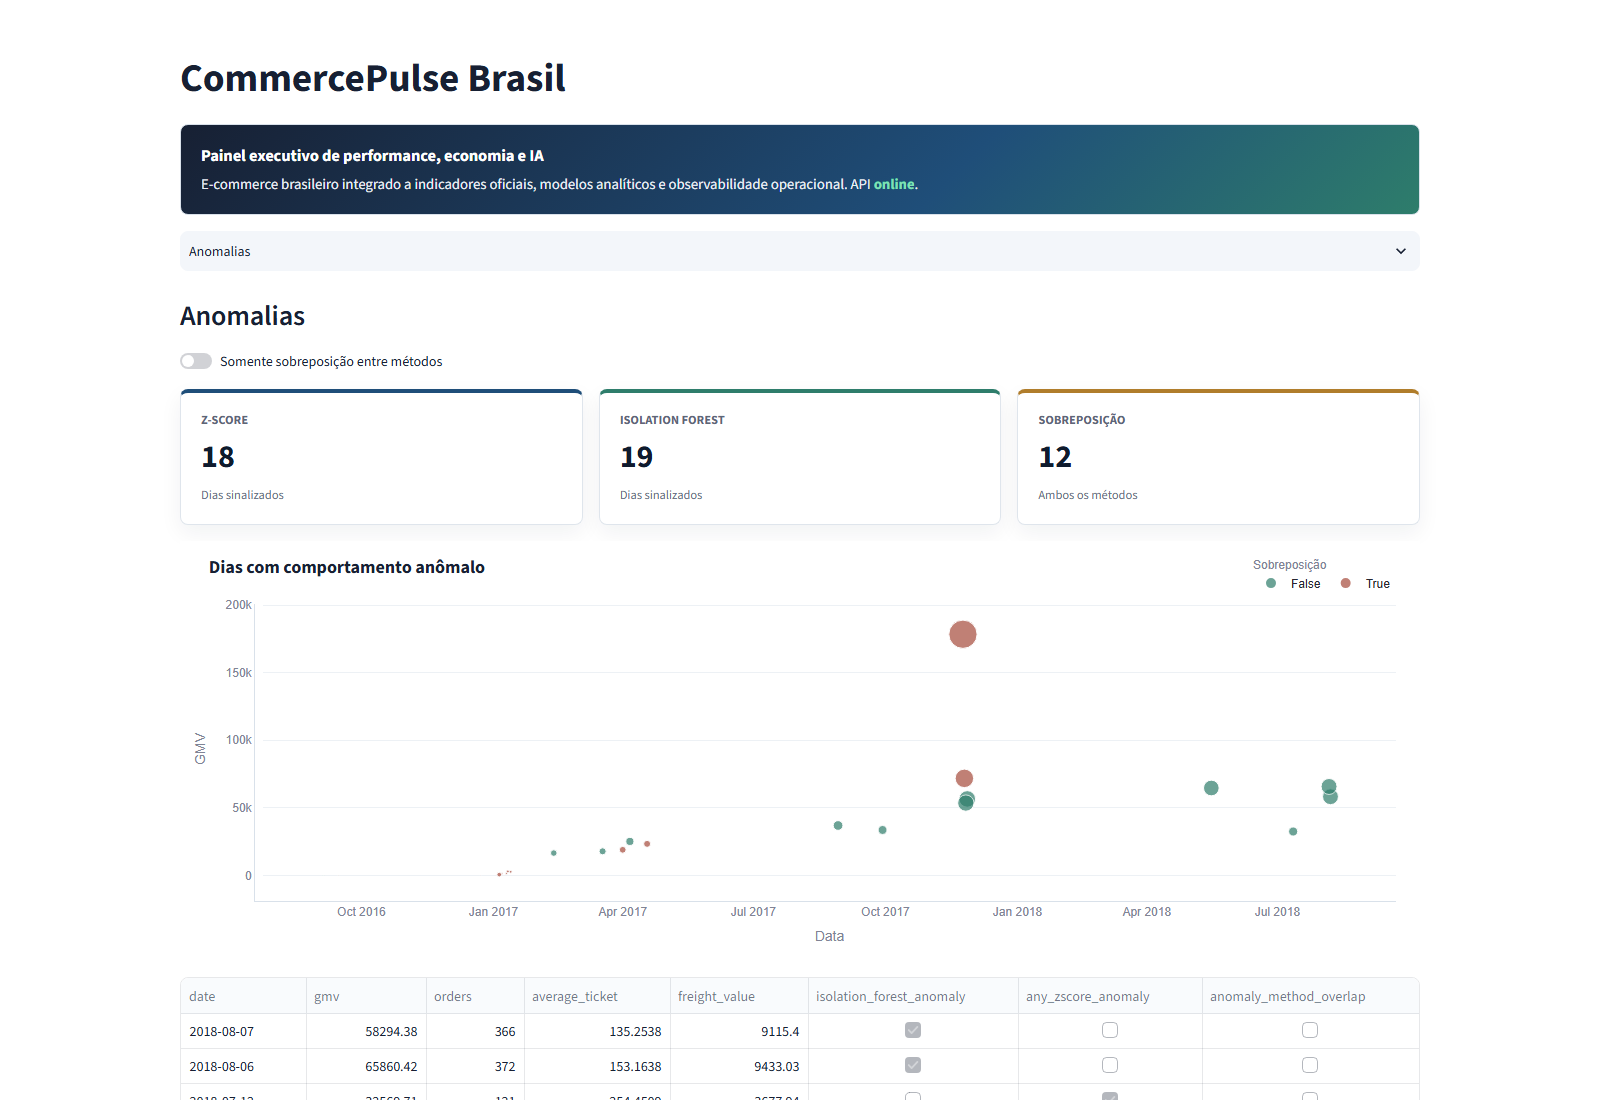
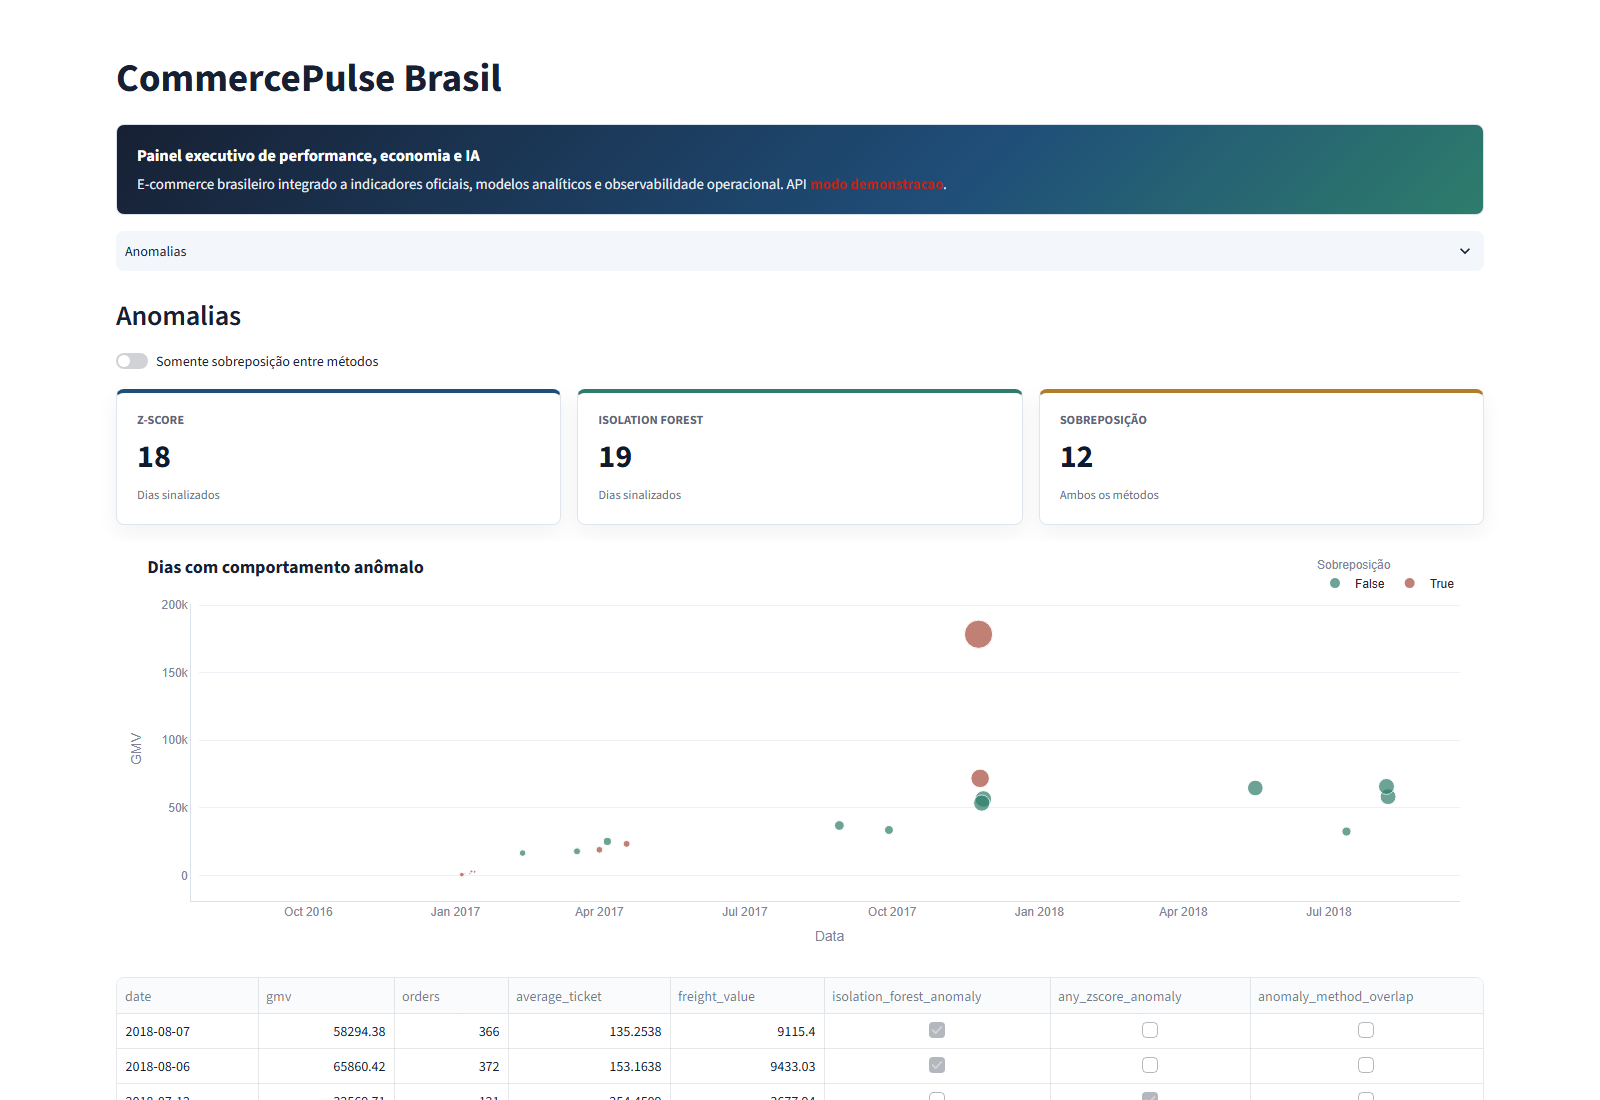
Refresh dashboard screenshots

diff --git a/dashboard/app.py b/dashboard/app.py
@@ -1,4 +1,4 @@
-from __future__ import annotations
+from __future__ import annotations
 
 import json
 import os
@@ -178,6 +178,8 @@ def apply_theme() -> None:
 
 @st.cache_data(ttl=300)
 def fetch_json(path: str, params: dict[str, Any] | None = None) -> Any:
+    if not is_api_available():
+        return sample_response(path, params=params)
     try:
         response = requests.get(f"{API_BASE_URL}{path}", params=params, timeout=10)
         response.raise_for_status()
@@ -308,13 +310,18 @@ def page_index_from_query(page_value: str | None) -> int:
     return PAGES.index(page) if page in PAGES else 0
 
 
-def api_status() -> bool:
+@st.cache_data(ttl=300)
+def is_api_available() -> bool:
     try:
         response = requests.get(f"{API_BASE_URL}/health", timeout=3)
         response.raise_for_status()
     except requests.RequestException:
         return False
     return True
+
+
+def api_status() -> bool:
+    return is_api_available()
 
 
 def style_figure(fig: go.Figure) -> go.Figure:
@@ -464,7 +471,7 @@ def render_overview() -> None:
             hover_data={"orders": ":,.0f", "customers": ":,.0f", "average_ticket": ":.2f"},
         )
         fig.update_traces(line={"width": 3, "color": "#1F4E79"}, marker={"size": 8})
-        st.plotly_chart(style_figure(fig), use_container_width=True)
+        st.plotly_chart(style_figure(fig), width="stretch")
     with right:
         categories_chart = categories.sort_values("gmv")
         categories_chart["categoria"] = categories_chart["category"].map(humanize_label)
@@ -480,8 +487,12 @@ def render_overview() -> None:
             hover_data={"orders": ":,.0f", "items_sold": ":,.0f", "average_ticket": ":.2f"},
         )
         fig.update_traces(marker={"color": "#2E7D6B"})
-        add_bar_labels(fig)
-        st.plotly_chart(style_figure(fig), use_container_width=True)
+        fig.update_traces(
+            textposition="inside",
+            insidetextanchor="end",
+            textfont={"color": "#ffffff"},
+        )
+        st.plotly_chart(style_figure(fig), width="stretch")
 
     segments["segmento"] = segments["ml_segment"].map(SEGMENT_LABELS).fillna(segments["ml_segment"])
     segments["clientes"] = segments["customers"].map(format_compact_number)
@@ -513,7 +524,7 @@ def render_overview() -> None:
         )
         fig.update_layout(coloraxis_colorbar={"title": "Valor medio"})
         add_bar_labels(fig)
-        st.plotly_chart(style_figure(fig), use_container_width=True)
+        st.plotly_chart(style_figure(fig), width="stretch")
     with right:
         segment_table = segments.sort_values("customers", ascending=False)[
             ["segmento", "clientes", "valor_medio", "average_recency_days"]
@@ -528,7 +539,7 @@ def render_overview() -> None:
         segment_table["Recencia media"] = segment_table["Recencia media"].map(
             lambda value: f"{value:.1f} dias"
         )
-        st.dataframe(segment_table, use_container_width=True, hide_index=True)
+        st.dataframe(segment_table, width="stretch", hide_index=True)
 
     segment_categories = dataframe_from_api("/customers/segments/categories")
     if not segment_categories.empty:
@@ -571,7 +582,7 @@ def render_overview() -> None:
                 )
                 fig.update_traces(marker={"color": "#1F4E79"})
                 add_bar_labels(fig)
-                st.plotly_chart(style_figure(fig), use_container_width=True)
+                st.plotly_chart(style_figure(fig), width="stretch")
                 st.dataframe(
                     segment_slice.sort_values("gmv", ascending=False)[
                         ["categoria", "gmv_label", "pedidos", "itens"]
@@ -583,7 +594,7 @@ def render_overview() -> None:
                             "itens": "Itens",
                         }
                     ),
-                    use_container_width=True,
+                    width="stretch",
                     hide_index=True,
                 )
 
@@ -609,7 +620,7 @@ def render_sales() -> None:
         hover_data={"orders": ":,.0f", "gmv": ":.2f", "average_ticket": ":.2f"},
     )
     fig.update_traces(line={"width": 3, "color": "#1F4E79"}, marker={"size": 7})
-    st.plotly_chart(style_figure(fig), use_container_width=True)
+    st.plotly_chart(style_figure(fig), width="stretch")
 
     cols = st.columns(2)
     with cols[0]:
@@ -625,7 +636,7 @@ def render_sales() -> None:
         )
         fig.update_traces(marker={"color": "#2E7D6B"})
         add_bar_labels(fig)
-        st.plotly_chart(style_figure(fig), use_container_width=True)
+        st.plotly_chart(style_figure(fig), width="stretch")
     with cols[1]:
         fig = px.line(
             monthly,
@@ -637,8 +648,8 @@ def render_sales() -> None:
             hover_data={"orders": ":,.0f", "gmv": ":.2f"},
         )
         fig.update_traces(line={"width": 3, "color": "#B07D2B"}, marker={"size": 7})
-        st.plotly_chart(style_figure(fig), use_container_width=True)
-    st.dataframe(daily, use_container_width=True, hide_index=True)
+        st.plotly_chart(style_figure(fig), width="stretch")
+    st.dataframe(daily, width="stretch", hide_index=True)
 
 
 def render_categories() -> None:
@@ -647,28 +658,49 @@ def render_categories() -> None:
     categories = dataframe_from_api("/categories/top", {"limit": limit})
     categories["categoria"] = categories["category"].map(humanize_label)
     categories["gmv_label"] = categories["gmv"].map(format_compact_currency)
+    categories["orders_label"] = categories["orders"].map(format_compact_number)
+    categories["ticket_label"] = categories["average_ticket"].map(format_currency)
 
-    fig = px.scatter(
-        categories,
-        x="orders",
-        y="gmv",
-        size="items_sold",
+    ranked = categories.sort_values("gmv", ascending=True)
+    fig = px.bar(
+        ranked,
+        x="gmv",
+        y="categoria",
+        orientation="h",
+        text="gmv_label",
         color="average_ticket",
-        text="categoria",
-        hover_name="categoria",
         color_continuous_scale=["#dfe8f2", "#1F4E79"],
-        title="Categorias por escala, GMV e ticket médio",
+        title="Ranking de categorias por GMV",
         labels={
-            "orders": "Pedidos",
             "gmv": "GMV",
-            "items_sold": "Itens vendidos",
+            "categoria": "Categoria",
             "average_ticket": "Ticket médio",
         },
-        hover_data={"gmv_label": False, "revenue": ":.2f", "freight_value": ":.2f"},
+        hover_data={
+            "orders_label": True,
+            "ticket_label": True,
+            "items_sold": ":,.0f",
+            "revenue": ":.2f",
+            "freight_value": ":.2f",
+            "gmv_label": False,
+        },
     )
-    fig.update_traces(textposition="top center")
-    st.plotly_chart(style_figure(fig), use_container_width=True)
-    st.dataframe(categories, use_container_width=True, hide_index=True)
+    add_bar_labels(fig)
+    st.plotly_chart(style_figure(fig), width="stretch")
+
+    table = categories.sort_values("gmv", ascending=False)[
+        ["categoria", "gmv_label", "orders_label", "items_sold", "ticket_label"]
+    ].rename(
+        columns={
+            "categoria": "Categoria",
+            "gmv_label": "GMV",
+            "orders_label": "Pedidos",
+            "items_sold": "Itens",
+            "ticket_label": "Ticket médio",
+        }
+    )
+    table["Itens"] = table["Itens"].map(format_number)
+    st.dataframe(table, width="stretch", hide_index=True)
 
 
 def render_economic_analysis() -> None:
@@ -708,11 +740,11 @@ def render_economic_analysis() -> None:
         labels={"correlation": "Correlação", "indicator": "Indicador", "metric": "Métrica"},
         color_discrete_sequence=EXECUTIVE_COLORS,
     )
-    st.plotly_chart(style_figure(fig), use_container_width=True)
+    st.plotly_chart(style_figure(fig), width="stretch")
     st.info("As correlações são descritivas e não implicam causalidade.")
     st.dataframe(
         correlations.drop(columns=["correlacao_abs"]),
-        use_container_width=True,
+        width="stretch",
         hide_index=True,
     )
 
@@ -758,7 +790,7 @@ def render_ml() -> None:
         labels={"segmento": "Segmento", "customers": "Clientes", "average_monetary": "Valor médio"},
     )
     add_bar_labels(fig)
-    st.plotly_chart(style_figure(fig), use_container_width=True)
+    st.plotly_chart(style_figure(fig), width="stretch")
 
     metric_rows = pd.DataFrame(forecast["metrics"])
     error_rows = metric_rows.melt(
@@ -781,15 +813,15 @@ def render_ml() -> None:
         color_discrete_sequence=EXECUTIVE_COLORS,
     )
     add_bar_labels(fig)
-    st.plotly_chart(style_figure(fig), use_container_width=True)
+    st.plotly_chart(style_figure(fig), width="stretch")
     metric_rows["mape"] = metric_rows["mape"].map(format_percent)
     metric_rows["mae"] = metric_rows["mae"].map(format_currency)
     metric_rows["rmse"] = metric_rows["rmse"].map(format_currency)
     metric_rows = metric_rows.rename(
         columns={"model_name": "Modelo", "mae": "MAE", "rmse": "RMSE", "mape": "MAPE"}
     )
-    st.dataframe(metric_rows, use_container_width=True, hide_index=True)
-    st.dataframe(segments, use_container_width=True, hide_index=True)
+    st.dataframe(metric_rows, width="stretch", hide_index=True)
+    st.dataframe(segments, width="stretch", hide_index=True)
 
 
 def render_anomalies() -> None:
@@ -829,8 +861,8 @@ def render_anomalies() -> None:
             "anomaly_method_overlap": "Sobreposição",
         },
     )
-    st.plotly_chart(style_figure(fig), use_container_width=True)
-    st.dataframe(anomalies, use_container_width=True, hide_index=True)
+    st.plotly_chart(style_figure(fig), width="stretch")
+    st.dataframe(anomalies, width="stretch", hide_index=True)
 
 
 def render_observability() -> None:
@@ -897,14 +929,15 @@ def render_observability() -> None:
             y="area",
             orientation="h",
             text="checks_label",
-            color="failures",
-            color_continuous_scale=["#2E7D6B", "#A64B3C"],
+            color="area",
             title="Checks por área monitorada",
-            labels={"checks": "Checks", "area": "Área", "failures": "Falhas"},
+            labels={"checks": "Checks", "area": "Área"},
             hover_data={"avg_age": True, "avg_age_hours": False},
+            color_discrete_sequence=["#1F4E79", "#2E7D6B", "#B07D2B"],
         )
+        fig.update_layout(showlegend=False)
         add_bar_labels(fig)
-        st.plotly_chart(style_figure(fig), use_container_width=True)
+        st.plotly_chart(style_figure(fig), width="stretch")
     with right:
         freshness = by_area.sort_values("avg_age_hours", ascending=False)
         st.write("Atualização dos artefatos")
@@ -912,7 +945,7 @@ def render_observability() -> None:
             freshness[["area", "checks_label", "avg_age"]].rename(
                 columns={"area": "Área", "checks_label": "Checks", "avg_age": "Idade média"}
             ),
-            use_container_width=True,
+            width="stretch",
             hide_index=True,
         )
 
@@ -932,7 +965,7 @@ def render_observability() -> None:
                     "path": "Caminho",
                 }
             ),
-            use_container_width=True,
+            width="stretch",
             hide_index=True,
         )
 
@@ -955,7 +988,7 @@ def render_observability() -> None:
     audit["Idade"] = audit["Idade"].map(lambda value: None if pd.isna(value) else value)
     audit["Idade"] = audit["Idade"].map(format_age)
     st.write("Inventário de checks")
-    st.dataframe(audit, use_container_width=True, hide_index=True)
+    st.dataframe(audit, width="stretch", hide_index=True)
 
 
 def render_catalog() -> None:
@@ -1002,7 +1035,7 @@ def render_catalog() -> None:
         gold["caminho"] = gold["path"].map(normalize_path)
         st.dataframe(
             gold[["nome", "linhas", "colunas", "caminho"]],
-            use_container_width=True,
+            width="stretch",
             hide_index=True,
         )
 
@@ -1016,7 +1049,7 @@ def render_catalog() -> None:
         outputs["caminho"] = outputs["path"].map(normalize_path)
         st.dataframe(
             outputs[["nome", "linhas", "colunas", "caminho"]],
-            use_container_width=True,
+            width="stretch",
             hide_index=True,
         )
 
@@ -1024,7 +1057,7 @@ def render_catalog() -> None:
     if reports.empty:
         st.info("Nenhum relatório recente encontrado.")
     else:
-        st.dataframe(reports, use_container_width=True, hide_index=True)
+        st.dataframe(reports, width="stretch", hide_index=True)
 
 
 def main() -> None:
@@ -1051,3 +1084,4 @@ def main() -> None:
 
 if __name__ == "__main__":
     main()
+

diff --git a/scripts/capture_dashboard.py b/scripts/capture_dashboard.py
@@ -25,7 +25,8 @@ def main() -> None:
         page = browser.new_page(viewport={"width": 1600, "height": 1100}, device_scale_factor=1)
         for filename, page_key in PAGES.items():
             page.goto(f"http://127.0.0.1:8501/?page={page_key}", wait_until="networkidle")
-            page.wait_for_timeout(3500)
+            page.wait_for_selector(".stMainBlockContainer", timeout=15000)
+            page.wait_for_timeout(8000)
             page.screenshot(path=output_dir / filename, full_page=True)
         browser.close()
 
